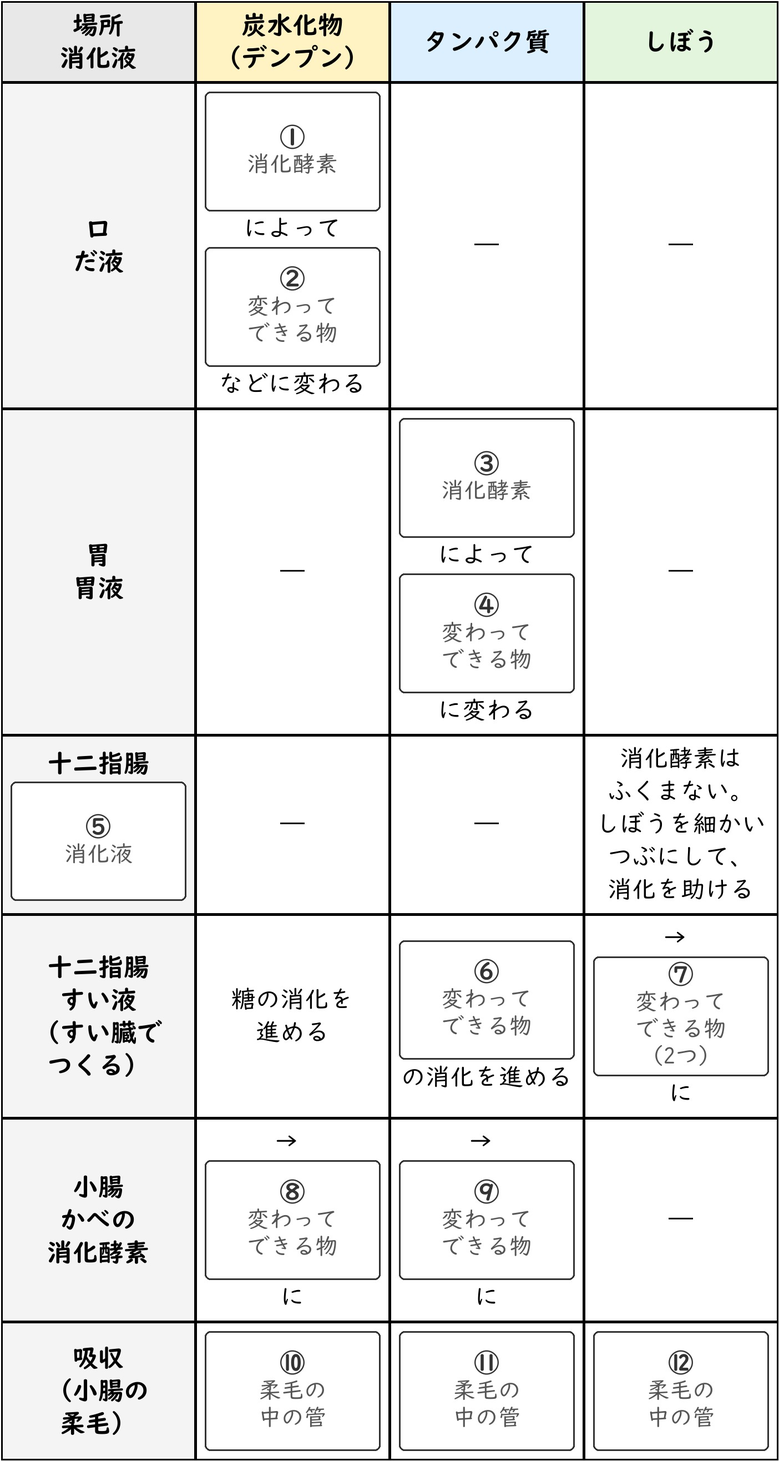
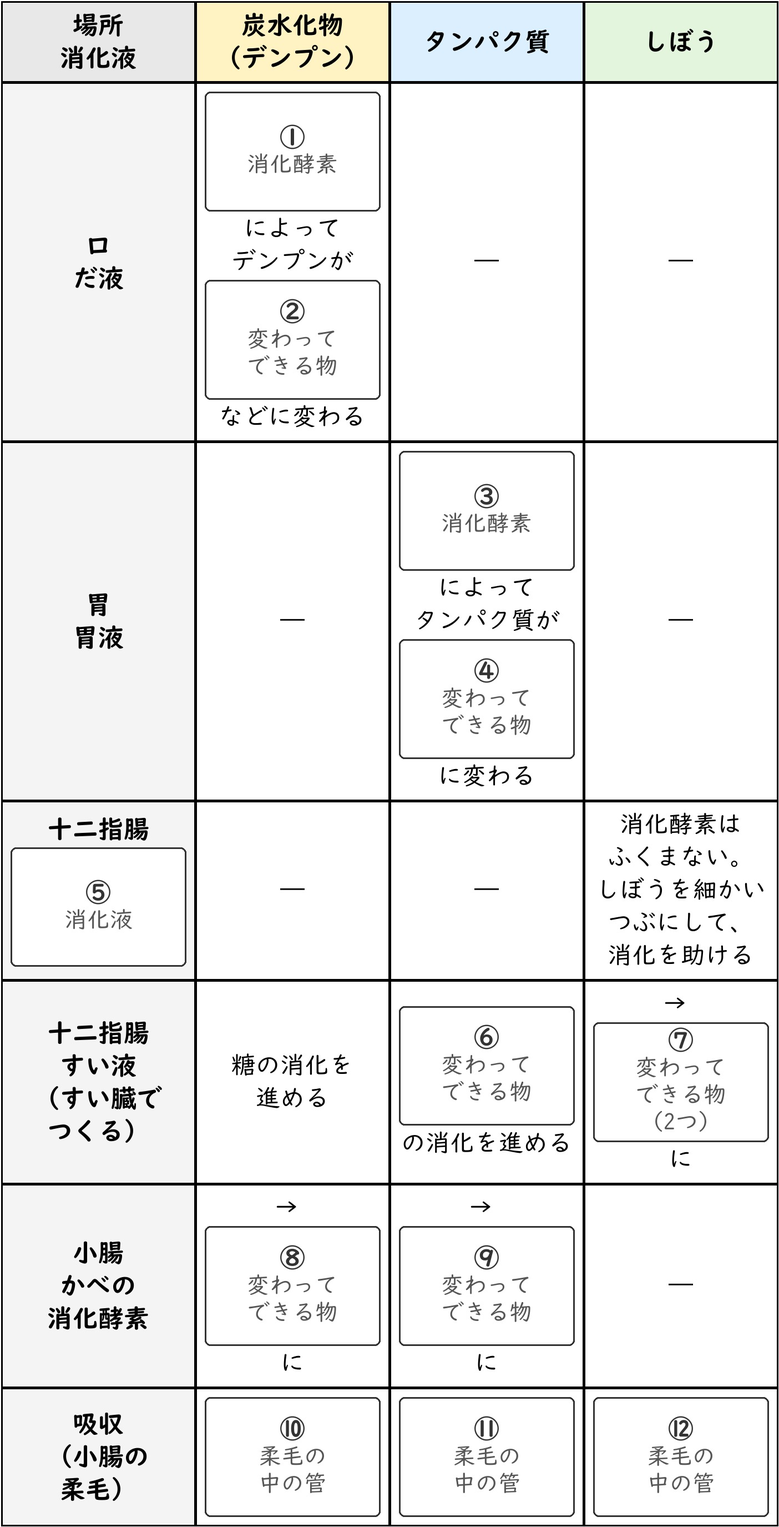
理科 第4回 消化の表に「デンプンが」「タンパク質が」を足した画像に差し替え＋IMG_SIZES＋赤丸6問
依頼書 = 5年下\quiz_csv_理科\取り込み依頼_消化の表_主語を足す_20260927.md
- images/r4_04.jpg を 947f21bc に（実寸 1404x2750）。IMG_SIZES r4_04 を 1404x2632 → 1404x2750
- TIMELINE_MARKS の r4m92・r4m93・r4m84・r4m94・r4m95・r4m96 を座標ファイル（75bd68f1）の数字に。ほかの枠は変わっていない（前後で比べて変わったのはこの6問だけ）
- data.js は変えていない
- 390px で r4m92（口の行 ①②）・r4m96（吸収の行 ⑩⑪⑫）の赤丸を目視

diff --git a/index.html b/index.html
@@ -2698,7 +2698,7 @@ function startConnectTimeout(side){
 // images/内の各画像の実サイズ。<img>にwidth/height属性を設定することで、
 // 読み込み前でも正しい縦横比の分だけ表示スペースを確保でき、
 // 画像読み込み完了時のレイアウトのガタつき（＝それに伴うタップのすれ違い）を防ぐ。
-const IMG_SIZES = {"img_01.jpg":[581,620],"img_02.jpg":[627,579],"img_03.jpg":[714,417],"img_04.jpg":[514,483],"img_05.jpg":[644,532],"img_06.jpg":[463,429],"img_07.jpg":[1156,446],"img_08.jpg":[573,586],"img_09.jpg":[506,198],"img_10.jpg":[497,146],"img_11.jpg":[503,499],"img_12.jpg":[518,578],"img_13.jpg":[746,621],"img_14.jpg":[713,567],"img_15.jpg":[658,628],"img_16.png":[642,589],"img_17.png":[535,597],"img_18.png":[510,295],"img_19.png":[1399,307],"img_20.png":[448,714],"img_21.png":[648,595],"img_22.png":[244,234],"img_23.jpg":[346,355],"img_24.jpg":[209,263],"img_25.jpg":[228,244],"kai1_01.jpg":[374,356],"kai1_02.jpg":[348,339],"kai1_03.jpg":[492,339],"kai1_04.jpg":[352,340],"kai1_05.jpg":[357,340],"kai1_06.jpg":[261,340],"kai1_07.jpg":[461,340],"kai1_08.jpg":[444,340],"kai1_09.jpg":[357,340],"kai1_10.jpg":[601,340],"kai1_11.jpg":[635,340],"kai1_12.jpg":[2019,1084],"kai1_13.jpg":[516,490],"kai1_14.jpg":[560,254],"kai1_15.jpg":[595,324],"kai1_17.jpg":[2028,783],"kai1_18.jpg":[2019,1084],"kai1_20.jpg":[2019,1084],"kai1_21.jpg":[2019,1084],"kai1_22.jpg":[595,569],"kai1_23.jpg":[595,569],"kai1_24.jpg":[2019,1084],"kai1_25.jpg":[595,569],"kai1_26.jpg":[595,569],"kai1_27.jpg":[700,508],"kai1_28.jpg":[951,720],"kai1_29.jpg":[2240,1180],"kai1_30.jpg":[1181,1244],"kai2_01.jpg":[697,350],"kai2_02.jpg":[769,524],"kai2_03.jpg":[529,297],"kai2_04.jpg":[529,313],"kai2_05.jpg":[1216,2126],"kai3_01.jpg":[530,460],"kai3_02.jpg":[680,460],"kai3_03.jpg":[700,460],"kai3_04.jpg":[675,330],"kai3_05.jpg":[2408,1775],"kai3_06.jpg":[1988,1222],"kai3_07.jpg":[1189,2001],"kai4_01.jpg":[1189,1839],"kai5_01.jpg":[1189,1027],"kai5_02.jpg":[743,534],"kaki_r1_01.jpg":[761,180],"kaki_r1_02.jpg":[761,206],"kaki_r1_03.jpg":[796,180],"kaki_r1_04.jpg":[761,179],"kaki_r1_05.jpg":[796,206],"kaki_r1_06.jpg":[830,214],"kaki_r1_07.jpg":[890,624],"kaki_r1_08.jpg":[430,380],"kaki_r1_map01.jpg":[1170,1210],"kaki_r1_map02.jpg":[1170,1210],"kaki_r1_map03.jpg":[1170,1210],"kaki_r1_map04.jpg":[1170,1210],"kaki_r1_map05.jpg":[1170,1210],"kaki_r1_map06.jpg":[1170,1210],"kaki_r1_map07.jpg":[1170,1210],"kaki_r1_map08.jpg":[1170,1210],"kaki_r1_map09.jpg":[1170,1210],"kaki_r1_map10.jpg":[1170,1210],"kaki_r1_map11.jpg":[1170,1210],"kaki_r1_map12.jpg":[1170,1210],"kaki_r1_map13.jpg":[1170,1210],"kaki_r1_map14.jpg":[1170,1210],"kaki_r1_map15.jpg":[1170,1210],"kaki_r2_graph01.jpg":[1215,1340],"kaki_r2_graph02.jpg":[1295,850],"kaki_r2_graph03.jpg":[1265,680],"kaki_r2_graph04.jpg":[1225,320],"kaki_r2_graph06.jpg":[1045,560],"kaki_r2_graph07.jpg":[700,870],"kaki_r2_map01.jpg":[1140,1090],"kaki_r2_map05.jpg":[1035,900],"kaki_r2_map07.jpg":[2315,1650],"kaki_r2_map08.jpg":[2315,1650],"kaki_r2_map09.jpg":[2315,1650],"kaki_r2_map10.jpg":[2315,1650],"kaki_r2_map11.jpg":[2315,1650],"kaki_r2_map12.jpg":[2315,1650],"kaki_r2_map13.jpg":[2315,1650],"kaki_r2_map14.jpg":[2315,1650],"kaki_r2_map15.jpg":[2315,1650],"kaki_r2_map16.jpg":[2315,1650],"kaki_r2_map17.jpg":[2315,1650],"kaki_r2_map18.jpg":[2315,1650],"kaki_r2_map19.jpg":[2315,1650],"kaki_r3_graph01.jpg":[1015,580],"kaki_r3_house01.jpg":[505,355],"kaki_r3_map01.jpg":[2415,3414],"kaki_r3_map02.jpg":[2415,3414],"kaki_r3_map03.jpg":[2415,3414],"kaki_r3_map04.jpg":[2415,3414],"kaki_r3_map05.jpg":[2415,3414],"kaki_r3_map06.jpg":[2415,3414],"kaki_r3_map07.jpg":[2415,3414],"kaki_r3_map08.jpg":[2415,3414],"kaki_r3_map09.jpg":[2415,3414],"kaki_r3_map10.jpg":[2415,3414],"kaki_r3_map11.jpg":[2415,3414],"kaki_r3_map12.jpg":[2415,3414],"kaki_r3_map13.jpg":[2415,3414],"kaki_r3_map14.jpg":[2415,3414],"kaki_r3_map15.jpg":[2415,3414],"kaki_r3_map16.jpg":[2415,3414],"kaki_r3_map17.jpg":[2415,3414],"kaki_r3_map18.jpg":[2415,3414],"kaki_r3_map19.jpg":[2415,3414],"kaki_r3_map20.jpg":[2415,3414],"kaki_r3_map21.jpg":[2415,3414],"kaki_r3_map22.jpg":[2415,3414],"kaki_r3_map23.jpg":[2415,3417],"kaki_r3_map24.jpg":[2415,3417],"kaki_r3_map25.jpg":[2415,3417],"kaki_r3_map26.jpg":[2415,3417],"kaki_r3_map27.jpg":[2415,3417],"kaki_r3_map28.jpg":[2415,3417],"kaki_r3_map29.jpg":[2415,3417],"kaki_r3_map30.jpg":[2415,3417],"kaki_r3_map31.jpg":[2415,3417],"kaki_r3_map32.jpg":[2415,3417],"kaki_r3_map33.jpg":[2415,3417],"kaki_r3_map34.jpg":[2415,3417],"kaki_r3_map35.jpg":[2415,3417],"kaki_r3_map36.jpg":[2415,3417],"kaki_r3_map37.jpg":[1265,910],"kaki_r3_shapes.jpg":[2315,480],"kaki_r4_graph01.jpg":[910,300],"kaki_r4_graph02.jpg":[760,200],"kaki_r4_map01.jpg":[1610,980],"kaki_r4_map02.jpg":[1610,1380],"kaki_r4_map03.jpg":[540,570],"kaki_r4_map04.jpg":[1480,1310],"kaki_r4_map05.jpg":[1480,1310],"kaki_r4_map06.jpg":[1480,1310],"kaki_r4_map07.jpg":[1480,1310],"kaki_r4_map08.jpg":[1480,1310],"kaki_r4_map09.jpg":[1480,1310],"kaki_r4_map10.jpg":[1480,1310],"kaki_r4_map11.jpg":[1480,1310],"kaki_r4_map12.jpg":[1480,1310],"kaki_r4_map13.jpg":[1480,1310],"kaki_r4_map14.jpg":[1480,1310],"kaki_r4_map15.jpg":[1480,1310],"kaki_r4_map16.jpg":[1480,1310],"kaki_r4_map17.jpg":[1480,1310],"kaki_r4_map18.jpg":[1480,1310],"kaki_r4_map19.jpg":[1480,1310],"kaki_r4_map20.jpg":[1480,1310],"kaki_r4_map21.jpg":[1480,1310],"kaki_r4_map22.jpg":[1480,1310],"kaki_r4_map23.jpg":[1480,1310],"kaki_r4_map24.jpg":[1480,1310],"kaki_r4_map25.jpg":[1630,1440],"kaki_r4_map26.jpg":[1630,1440],"kaki_r4_map27.jpg":[1630,1440],"kaki_r4_map28.jpg":[1630,1440],"kaki_r4_map29.jpg":[1630,1440],"kaki_r4_map30.jpg":[1630,1440],"kaki_r4_map31.jpg":[1630,1440],"kaki_r4_map32.jpg":[1630,1440],"kaki_r4_map33.jpg":[1630,1440],"kaki_r4_map34.jpg":[1630,1440],"kaki_r4_map35.jpg":[1630,1440],"kaki_r4_map36.jpg":[1630,1440],"kaki_r4_map37.jpg":[1630,1440],"kaki_r4_map38.jpg":[1630,1440],"kaki_r4_map39.jpg":[1630,1440],"kaki_r4_map40.jpg":[1630,1440],"kaki_r4_map41.jpg":[1630,1440],"kaki_r4_shapes01.jpg":[1470,520],"kaki_r4_shapes02.jpg":[1970,870],"kaki_r5_graph02.jpg":[610,665],"kaki_r5_graph05.jpg":[2105,343],"kaki_r5_map01.jpg":[1540,1550],"kaki_r5_map02.jpg":[1540,1550],"kaki_r5_map03.jpg":[1540,1550],"kaki_r5_map04.jpg":[1540,1550],"kaki_r5_map05.jpg":[1540,1550],"kaki_r5_map06.jpg":[1540,1550],"kaki_r5_map07.jpg":[1540,1550],"kaki_r5_map08.jpg":[1540,1550],"kaki_r5_map09.jpg":[1540,1550],"kaki_r5_map10.jpg":[1540,1550],"kaki_r5_map11.jpg":[1540,1550],"kaki_r5_map12.jpg":[1540,1550],"kaki_r5_map13.jpg":[1540,1550],"kaki_r5_map14.jpg":[1540,1550],"kaki_r5_map15.jpg":[1540,1550],"kaki_r5_map16.jpg":[1540,1550],"kaki_r5_map17.jpg":[1540,1550],"kaki_r5_map18.jpg":[1540,1550],"kaki_r5_map19.jpg":[1700,1740],"kaki_r5_map20.jpg":[1700,1740],"kaki_r5_map21.jpg":[1700,1740],"kaki_r5_map22.jpg":[1700,1740],"kaki_r5_map23.jpg":[1700,1740],"kaki_r5_map24.jpg":[1700,1740],"kaki_r5_map25.jpg":[1700,1740],"kaki_r5_map26.jpg":[1700,1740],"kaki_r5_map27.jpg":[1700,1740],"kaki_r5_map28.jpg":[1700,1740],"kaki_r5_map29.jpg":[1700,1740],"kaki_r5_map30.jpg":[1700,1740],"kaki_r5_map31.jpg":[1700,1740],"kaki_r5_map32.jpg":[540,600],"kaki_r5_shapes02.jpg":[800,635],"kaki_r5_shapes03.jpg":[460,480],"kaki_r5_table01.jpg":[1370,390],"kaki_r5_table02.jpg":[1170,580],"kaki_r6_graph01.jpg":[850,1005],"kaki_r6_map01.jpg":[1500,1320],"kaki_r6_map02.jpg":[1500,1320],"kaki_r6_map03.jpg":[1500,1320],"kaki_r6_map04.jpg":[1500,1320],"kaki_r6_map05.jpg":[1500,1320],"kaki_r6_map06.jpg":[1500,1320],"kaki_r6_map07.jpg":[1500,1320],"kaki_r6_map08.jpg":[1500,1320],"kaki_r6_map09.jpg":[1500,1320],"kaki_r6_map10.jpg":[1500,1320],"kaki_r6_map11.jpg":[1500,1320],"kaki_r6_map12.jpg":[1500,1320],"kaki_r6_map13.jpg":[1500,1320],"kaki_r6_map14.jpg":[1500,1320],"kaki_r6_map15.jpg":[1500,1320],"kaki_r6_map16.jpg":[1500,1320],"kaki_r6_map17.jpg":[1500,1320],"kaki_r6_map18.jpg":[1500,1320],"kaki_r6_map19.jpg":[1500,1320],"kaki_r6_map20.jpg":[1500,1320],"kaki_r6_map21.jpg":[1500,1320],"kaki_r6_map22.jpg":[1500,1320],"kaki_r6_map23.jpg":[1500,1320],"kaki_r6_map24.jpg":[1500,1320],"kaki_r6_map25.jpg":[1500,1320],"kaki_r6_map26.jpg":[1500,1320],"kaki_r6_map27.jpg":[1500,1320],"kaki_r6_map28.jpg":[1420,1480],"kaki_r6_map29.jpg":[1420,1480],"kaki_r6_map30.jpg":[1420,1480],"kaki_r6_map31.jpg":[1420,1480],"kaki_r6_map32.jpg":[1420,1480],"kaki_r6_map33.jpg":[1420,1480],"kaki_r6_map34.jpg":[1420,1480],"kaki_r6_map35.jpg":[1420,1480],"kaki_r6_map36.jpg":[1420,1480],"kaki_r6_map37.jpg":[1420,1480],"kaki_r6_map38.jpg":[1420,1480],"kaki_r6_map39.jpg":[1420,1480],"kaki_r6_map40.jpg":[1420,1480],"kaki_r6_map41.jpg":[1420,1480],"kaki_r6_map42.jpg":[1420,1480],"kaki_r6_map43.jpg":[1420,1480],"kaki_r6_map44.jpg":[1420,1480],"kaki_r6_map45.jpg":[1420,1480],"kaki_r6_map46.jpg":[1420,1480],"kaki_r6_map47.jpg":[1420,1480],"kaki_r6_map48.jpg":[750,845],"kaki_r6_map49.jpg":[600,700],"kaki_r6_table01.jpg":[2010,445],"kaki_r7_graph02.jpg":[720,340],"kaki_r7_map01.jpg":[1840,1620],"kaki_r7_map02.jpg":[1840,1620],"kaki_r7_map03.jpg":[1840,1620],"kaki_r7_map04.jpg":[1840,1620],"kaki_r7_map05.jpg":[1840,1620],"kaki_r7_map06.jpg":[1840,1620],"kaki_r7_map07.jpg":[1840,1620],"kaki_r7_map08.jpg":[1840,1620],"kaki_r7_map09.jpg":[1840,1620],"kaki_r7_map10.jpg":[1840,1620],"kaki_r7_map11.jpg":[1840,1620],"kaki_r7_map12.jpg":[1840,1620],"kaki_r7_map13.jpg":[1840,1620],"kaki_r7_map14.jpg":[1840,1620],"kaki_r7_map15.jpg":[1840,1620],"kaki_r7_map16.jpg":[1840,1620],"kaki_r7_map17.jpg":[1840,1620],"kaki_r7_map18.jpg":[1500,1620],"kaki_r7_map19.jpg":[1500,1620],"kaki_r7_map20.jpg":[1500,1620],"kaki_r7_map21.jpg":[1500,1620],"kaki_r7_map22.jpg":[1500,1620],"kaki_r7_map23.jpg":[1500,1620],"kaki_r7_map24.jpg":[1500,1620],"kaki_r7_map25.jpg":[1500,1620],"kaki_r7_map26.jpg":[1500,1620],"kaki_r7_map27.jpg":[1500,1620],"kaki_r7_map28.jpg":[1500,1620],"kaki_r7_map29.jpg":[1500,1620],"kaki_r7_map30.jpg":[1500,1620],"kaki_r7_map31.jpg":[1500,1620],"kaki_r7_map32.jpg":[1500,1620],"kaki_r7_map33.jpg":[1500,1620],"kaki_r7_map34.jpg":[1500,1620],"kaki_r7_map35.jpg":[1500,1620],"kaki_r7_map36.jpg":[680,550],"kaki_r7_table01.jpg":[1100,420],"kaki_r7_table02.jpg":[1730,890],"kaki_r8_map01.jpg":[1220,1720],"kaki_r8_map02.jpg":[1220,1720],"kaki_r8_map03.jpg":[1220,1720],"kaki_r8_map04.jpg":[1220,1720],"kaki_r8_map05.jpg":[1220,1720],"kaki_r8_map06.jpg":[1220,1720],"kaki_r8_map07.jpg":[1220,1720],"kaki_r8_map08.jpg":[1220,1720],"kaki_r8_map09.jpg":[1220,1720],"kaki_r8_map10.jpg":[1220,1720],"kaki_r8_map11.jpg":[1220,1720],"kaki_r8_map12.jpg":[1220,1720],"kaki_r8_map13.jpg":[1220,1720],"kaki_r8_map14.jpg":[1220,1720],"kaki_r8_map15.jpg":[1220,1720],"kaki_r8_map16.jpg":[1220,1720],"kaki_r8_map17.jpg":[1220,1720],"kaki_r8_map18.jpg":[1220,1720],"kaki_r8_map19.jpg":[1220,1720],"kaki_r8_map20.jpg":[1220,1720],"kaki_r8_map21.jpg":[1220,1720],"kaki_r8_map22.jpg":[1220,1720],"kaki_r8_map23.jpg":[1220,1720],"kaki_r8_map24.jpg":[1220,1720],"kaki_r8_map25.jpg":[1220,1720],"kaki_r8_map26.jpg":[1220,1720],"kaki_r8_map27.jpg":[1220,1720],"kaki_r8_map28.jpg":[1220,1720],"kaki_r8_map29.jpg":[1220,1720],"kaki_r8_map30.jpg":[1220,1720],"kaki_r8_map31.jpg":[1220,1720],"kaki_r8_map32.jpg":[1220,1720],"kaki_r8_map33.jpg":[1220,1720],"kaki_r8_map34.jpg":[1220,1720],"kaki_r8_map35.jpg":[1870,1560],"kaki_r8_map36.jpg":[1870,1560],"kaki_r8_map37.jpg":[1870,1560],"kaki_r8_map38.jpg":[1870,1560],"kaki_r8_map39.jpg":[1870,1560],"kaki_r8_map40.jpg":[1870,1560],"kaki_r8_map41.jpg":[1870,1560],"kaki_r8_map42.jpg":[1870,1560],"kaki_r8_map43.jpg":[1870,1560],"kaki_r8_map44.jpg":[1870,1560],"kaki_r8_map45.jpg":[1870,1560],"kaki_r8_map46.jpg":[1870,1560],"kaki_r8_map47.jpg":[1870,1560],"kaki_r8_map48.jpg":[1870,1560],"kaki_r8_map49.jpg":[1870,1560],"kaki_r8_map50.jpg":[1870,1560],"kaki_r8_map51.jpg":[1870,1560],"kaki_r8_map52.jpg":[1870,1560],"kaki_r8_map53.jpg":[1870,1560],"kaki_r8_map54.jpg":[1870,1560],"kaki_r8_map55.jpg":[1870,1560],"kaki_r8_map56.jpg":[1870,1560],"kaki_r8_map57.jpg":[1870,1560],"kaki_r8_map58.jpg":[640,630],"r1_01.jpg":[2188,900],"r1_02.jpg":[1130,1070],"r1_03.jpg":[1660,400],"r1_04.jpg":[476,377],"r1_05.jpg":[1299,625],"r1_06.jpg":[950,360],"r1_shinrin.jpg":[1404,1135],"r2_01.jpg":[1400,673],"r2_02.jpg":[1400,365],"r2_03.jpg":[1400,346],"r2_04.jpg":[1400,997],"r2_05.jpg":[1400,692],"r2_06.jpg":[1392,600],"r2_07.jpg":[1392,623],"r2_08.jpg":[1392,701],"r2_09.jpg":[1419,823],"r2_10.jpg":[1419,823],"r2_11.jpg":[1419,823],"r2_12.jpg":[1419,956],"r2_13.jpg":[1419,956],"r2_14.jpg":[1419,956],"r2_15.jpg":[1400,946],"r2_16.jpg":[1400,946],"r2_17.jpg":[1400,946],"r2_18.jpg":[1400,883],"r2_19.jpg":[1400,883],"r2_20.jpg":[1427,1895],"r2_21.jpg":[1427,1895],"r2_22.jpg":[1427,1895],"r2_23.jpg":[1427,1895],"r2_24.jpg":[1427,1895],"r2_25.jpg":[1427,1895],"r2_26.jpg":[1410,1983],"r2_27.jpg":[1410,1983],"r2_28.jpg":[1410,1983],"r2_29.jpg":[1410,1983],"r2_30.jpg":[1419,946],"r2_31.jpg":[1419,946],"r2_32.jpg":[1419,946],"r2_33.jpg":[1419,946],"r2_34.jpg":[1419,538],"r2_35.jpg":[1419,538],"r2_36.jpg":[1419,538],"r2_37.jpg":[1419,538],"r2_38.jpg":[1419,546],"r2_39.jpg":[1401,913],"r2_40.jpg":[1401,1937],"r3_chuuwa.jpg":[1404,556],"r3_seishitsu.jpg":[1404,1708],"r3_shijiyaku.jpg":[1404,790],"r3_yomi21.jpg":[645,466],"r3_yomi24.jpg":[1404,382],"r3_yomi25.jpg":[1170,1095],"r3_yomi27.jpg":[1404,310],"r3_yomi36.jpg":[780,600],"r4_01.jpg":[880,1168],"r4_02.jpg":[1175,434],"r4_03.jpg":[759,1084],"r4_04.jpg":[1404,2632]};
+const IMG_SIZES = {"img_01.jpg":[581,620],"img_02.jpg":[627,579],"img_03.jpg":[714,417],"img_04.jpg":[514,483],"img_05.jpg":[644,532],"img_06.jpg":[463,429],"img_07.jpg":[1156,446],"img_08.jpg":[573,586],"img_09.jpg":[506,198],"img_10.jpg":[497,146],"img_11.jpg":[503,499],"img_12.jpg":[518,578],"img_13.jpg":[746,621],"img_14.jpg":[713,567],"img_15.jpg":[658,628],"img_16.png":[642,589],"img_17.png":[535,597],"img_18.png":[510,295],"img_19.png":[1399,307],"img_20.png":[448,714],"img_21.png":[648,595],"img_22.png":[244,234],"img_23.jpg":[346,355],"img_24.jpg":[209,263],"img_25.jpg":[228,244],"kai1_01.jpg":[374,356],"kai1_02.jpg":[348,339],"kai1_03.jpg":[492,339],"kai1_04.jpg":[352,340],"kai1_05.jpg":[357,340],"kai1_06.jpg":[261,340],"kai1_07.jpg":[461,340],"kai1_08.jpg":[444,340],"kai1_09.jpg":[357,340],"kai1_10.jpg":[601,340],"kai1_11.jpg":[635,340],"kai1_12.jpg":[2019,1084],"kai1_13.jpg":[516,490],"kai1_14.jpg":[560,254],"kai1_15.jpg":[595,324],"kai1_17.jpg":[2028,783],"kai1_18.jpg":[2019,1084],"kai1_20.jpg":[2019,1084],"kai1_21.jpg":[2019,1084],"kai1_22.jpg":[595,569],"kai1_23.jpg":[595,569],"kai1_24.jpg":[2019,1084],"kai1_25.jpg":[595,569],"kai1_26.jpg":[595,569],"kai1_27.jpg":[700,508],"kai1_28.jpg":[951,720],"kai1_29.jpg":[2240,1180],"kai1_30.jpg":[1181,1244],"kai2_01.jpg":[697,350],"kai2_02.jpg":[769,524],"kai2_03.jpg":[529,297],"kai2_04.jpg":[529,313],"kai2_05.jpg":[1216,2126],"kai3_01.jpg":[530,460],"kai3_02.jpg":[680,460],"kai3_03.jpg":[700,460],"kai3_04.jpg":[675,330],"kai3_05.jpg":[2408,1775],"kai3_06.jpg":[1988,1222],"kai3_07.jpg":[1189,2001],"kai4_01.jpg":[1189,1839],"kai5_01.jpg":[1189,1027],"kai5_02.jpg":[743,534],"kaki_r1_01.jpg":[761,180],"kaki_r1_02.jpg":[761,206],"kaki_r1_03.jpg":[796,180],"kaki_r1_04.jpg":[761,179],"kaki_r1_05.jpg":[796,206],"kaki_r1_06.jpg":[830,214],"kaki_r1_07.jpg":[890,624],"kaki_r1_08.jpg":[430,380],"kaki_r1_map01.jpg":[1170,1210],"kaki_r1_map02.jpg":[1170,1210],"kaki_r1_map03.jpg":[1170,1210],"kaki_r1_map04.jpg":[1170,1210],"kaki_r1_map05.jpg":[1170,1210],"kaki_r1_map06.jpg":[1170,1210],"kaki_r1_map07.jpg":[1170,1210],"kaki_r1_map08.jpg":[1170,1210],"kaki_r1_map09.jpg":[1170,1210],"kaki_r1_map10.jpg":[1170,1210],"kaki_r1_map11.jpg":[1170,1210],"kaki_r1_map12.jpg":[1170,1210],"kaki_r1_map13.jpg":[1170,1210],"kaki_r1_map14.jpg":[1170,1210],"kaki_r1_map15.jpg":[1170,1210],"kaki_r2_graph01.jpg":[1215,1340],"kaki_r2_graph02.jpg":[1295,850],"kaki_r2_graph03.jpg":[1265,680],"kaki_r2_graph04.jpg":[1225,320],"kaki_r2_graph06.jpg":[1045,560],"kaki_r2_graph07.jpg":[700,870],"kaki_r2_map01.jpg":[1140,1090],"kaki_r2_map05.jpg":[1035,900],"kaki_r2_map07.jpg":[2315,1650],"kaki_r2_map08.jpg":[2315,1650],"kaki_r2_map09.jpg":[2315,1650],"kaki_r2_map10.jpg":[2315,1650],"kaki_r2_map11.jpg":[2315,1650],"kaki_r2_map12.jpg":[2315,1650],"kaki_r2_map13.jpg":[2315,1650],"kaki_r2_map14.jpg":[2315,1650],"kaki_r2_map15.jpg":[2315,1650],"kaki_r2_map16.jpg":[2315,1650],"kaki_r2_map17.jpg":[2315,1650],"kaki_r2_map18.jpg":[2315,1650],"kaki_r2_map19.jpg":[2315,1650],"kaki_r3_graph01.jpg":[1015,580],"kaki_r3_house01.jpg":[505,355],"kaki_r3_map01.jpg":[2415,3414],"kaki_r3_map02.jpg":[2415,3414],"kaki_r3_map03.jpg":[2415,3414],"kaki_r3_map04.jpg":[2415,3414],"kaki_r3_map05.jpg":[2415,3414],"kaki_r3_map06.jpg":[2415,3414],"kaki_r3_map07.jpg":[2415,3414],"kaki_r3_map08.jpg":[2415,3414],"kaki_r3_map09.jpg":[2415,3414],"kaki_r3_map10.jpg":[2415,3414],"kaki_r3_map11.jpg":[2415,3414],"kaki_r3_map12.jpg":[2415,3414],"kaki_r3_map13.jpg":[2415,3414],"kaki_r3_map14.jpg":[2415,3414],"kaki_r3_map15.jpg":[2415,3414],"kaki_r3_map16.jpg":[2415,3414],"kaki_r3_map17.jpg":[2415,3414],"kaki_r3_map18.jpg":[2415,3414],"kaki_r3_map19.jpg":[2415,3414],"kaki_r3_map20.jpg":[2415,3414],"kaki_r3_map21.jpg":[2415,3414],"kaki_r3_map22.jpg":[2415,3414],"kaki_r3_map23.jpg":[2415,3417],"kaki_r3_map24.jpg":[2415,3417],"kaki_r3_map25.jpg":[2415,3417],"kaki_r3_map26.jpg":[2415,3417],"kaki_r3_map27.jpg":[2415,3417],"kaki_r3_map28.jpg":[2415,3417],"kaki_r3_map29.jpg":[2415,3417],"kaki_r3_map30.jpg":[2415,3417],"kaki_r3_map31.jpg":[2415,3417],"kaki_r3_map32.jpg":[2415,3417],"kaki_r3_map33.jpg":[2415,3417],"kaki_r3_map34.jpg":[2415,3417],"kaki_r3_map35.jpg":[2415,3417],"kaki_r3_map36.jpg":[2415,3417],"kaki_r3_map37.jpg":[1265,910],"kaki_r3_shapes.jpg":[2315,480],"kaki_r4_graph01.jpg":[910,300],"kaki_r4_graph02.jpg":[760,200],"kaki_r4_map01.jpg":[1610,980],"kaki_r4_map02.jpg":[1610,1380],"kaki_r4_map03.jpg":[540,570],"kaki_r4_map04.jpg":[1480,1310],"kaki_r4_map05.jpg":[1480,1310],"kaki_r4_map06.jpg":[1480,1310],"kaki_r4_map07.jpg":[1480,1310],"kaki_r4_map08.jpg":[1480,1310],"kaki_r4_map09.jpg":[1480,1310],"kaki_r4_map10.jpg":[1480,1310],"kaki_r4_map11.jpg":[1480,1310],"kaki_r4_map12.jpg":[1480,1310],"kaki_r4_map13.jpg":[1480,1310],"kaki_r4_map14.jpg":[1480,1310],"kaki_r4_map15.jpg":[1480,1310],"kaki_r4_map16.jpg":[1480,1310],"kaki_r4_map17.jpg":[1480,1310],"kaki_r4_map18.jpg":[1480,1310],"kaki_r4_map19.jpg":[1480,1310],"kaki_r4_map20.jpg":[1480,1310],"kaki_r4_map21.jpg":[1480,1310],"kaki_r4_map22.jpg":[1480,1310],"kaki_r4_map23.jpg":[1480,1310],"kaki_r4_map24.jpg":[1480,1310],"kaki_r4_map25.jpg":[1630,1440],"kaki_r4_map26.jpg":[1630,1440],"kaki_r4_map27.jpg":[1630,1440],"kaki_r4_map28.jpg":[1630,1440],"kaki_r4_map29.jpg":[1630,1440],"kaki_r4_map30.jpg":[1630,1440],"kaki_r4_map31.jpg":[1630,1440],"kaki_r4_map32.jpg":[1630,1440],"kaki_r4_map33.jpg":[1630,1440],"kaki_r4_map34.jpg":[1630,1440],"kaki_r4_map35.jpg":[1630,1440],"kaki_r4_map36.jpg":[1630,1440],"kaki_r4_map37.jpg":[1630,1440],"kaki_r4_map38.jpg":[1630,1440],"kaki_r4_map39.jpg":[1630,1440],"kaki_r4_map40.jpg":[1630,1440],"kaki_r4_map41.jpg":[1630,1440],"kaki_r4_shapes01.jpg":[1470,520],"kaki_r4_shapes02.jpg":[1970,870],"kaki_r5_graph02.jpg":[610,665],"kaki_r5_graph05.jpg":[2105,343],"kaki_r5_map01.jpg":[1540,1550],"kaki_r5_map02.jpg":[1540,1550],"kaki_r5_map03.jpg":[1540,1550],"kaki_r5_map04.jpg":[1540,1550],"kaki_r5_map05.jpg":[1540,1550],"kaki_r5_map06.jpg":[1540,1550],"kaki_r5_map07.jpg":[1540,1550],"kaki_r5_map08.jpg":[1540,1550],"kaki_r5_map09.jpg":[1540,1550],"kaki_r5_map10.jpg":[1540,1550],"kaki_r5_map11.jpg":[1540,1550],"kaki_r5_map12.jpg":[1540,1550],"kaki_r5_map13.jpg":[1540,1550],"kaki_r5_map14.jpg":[1540,1550],"kaki_r5_map15.jpg":[1540,1550],"kaki_r5_map16.jpg":[1540,1550],"kaki_r5_map17.jpg":[1540,1550],"kaki_r5_map18.jpg":[1540,1550],"kaki_r5_map19.jpg":[1700,1740],"kaki_r5_map20.jpg":[1700,1740],"kaki_r5_map21.jpg":[1700,1740],"kaki_r5_map22.jpg":[1700,1740],"kaki_r5_map23.jpg":[1700,1740],"kaki_r5_map24.jpg":[1700,1740],"kaki_r5_map25.jpg":[1700,1740],"kaki_r5_map26.jpg":[1700,1740],"kaki_r5_map27.jpg":[1700,1740],"kaki_r5_map28.jpg":[1700,1740],"kaki_r5_map29.jpg":[1700,1740],"kaki_r5_map30.jpg":[1700,1740],"kaki_r5_map31.jpg":[1700,1740],"kaki_r5_map32.jpg":[540,600],"kaki_r5_shapes02.jpg":[800,635],"kaki_r5_shapes03.jpg":[460,480],"kaki_r5_table01.jpg":[1370,390],"kaki_r5_table02.jpg":[1170,580],"kaki_r6_graph01.jpg":[850,1005],"kaki_r6_map01.jpg":[1500,1320],"kaki_r6_map02.jpg":[1500,1320],"kaki_r6_map03.jpg":[1500,1320],"kaki_r6_map04.jpg":[1500,1320],"kaki_r6_map05.jpg":[1500,1320],"kaki_r6_map06.jpg":[1500,1320],"kaki_r6_map07.jpg":[1500,1320],"kaki_r6_map08.jpg":[1500,1320],"kaki_r6_map09.jpg":[1500,1320],"kaki_r6_map10.jpg":[1500,1320],"kaki_r6_map11.jpg":[1500,1320],"kaki_r6_map12.jpg":[1500,1320],"kaki_r6_map13.jpg":[1500,1320],"kaki_r6_map14.jpg":[1500,1320],"kaki_r6_map15.jpg":[1500,1320],"kaki_r6_map16.jpg":[1500,1320],"kaki_r6_map17.jpg":[1500,1320],"kaki_r6_map18.jpg":[1500,1320],"kaki_r6_map19.jpg":[1500,1320],"kaki_r6_map20.jpg":[1500,1320],"kaki_r6_map21.jpg":[1500,1320],"kaki_r6_map22.jpg":[1500,1320],"kaki_r6_map23.jpg":[1500,1320],"kaki_r6_map24.jpg":[1500,1320],"kaki_r6_map25.jpg":[1500,1320],"kaki_r6_map26.jpg":[1500,1320],"kaki_r6_map27.jpg":[1500,1320],"kaki_r6_map28.jpg":[1420,1480],"kaki_r6_map29.jpg":[1420,1480],"kaki_r6_map30.jpg":[1420,1480],"kaki_r6_map31.jpg":[1420,1480],"kaki_r6_map32.jpg":[1420,1480],"kaki_r6_map33.jpg":[1420,1480],"kaki_r6_map34.jpg":[1420,1480],"kaki_r6_map35.jpg":[1420,1480],"kaki_r6_map36.jpg":[1420,1480],"kaki_r6_map37.jpg":[1420,1480],"kaki_r6_map38.jpg":[1420,1480],"kaki_r6_map39.jpg":[1420,1480],"kaki_r6_map40.jpg":[1420,1480],"kaki_r6_map41.jpg":[1420,1480],"kaki_r6_map42.jpg":[1420,1480],"kaki_r6_map43.jpg":[1420,1480],"kaki_r6_map44.jpg":[1420,1480],"kaki_r6_map45.jpg":[1420,1480],"kaki_r6_map46.jpg":[1420,1480],"kaki_r6_map47.jpg":[1420,1480],"kaki_r6_map48.jpg":[750,845],"kaki_r6_map49.jpg":[600,700],"kaki_r6_table01.jpg":[2010,445],"kaki_r7_graph02.jpg":[720,340],"kaki_r7_map01.jpg":[1840,1620],"kaki_r7_map02.jpg":[1840,1620],"kaki_r7_map03.jpg":[1840,1620],"kaki_r7_map04.jpg":[1840,1620],"kaki_r7_map05.jpg":[1840,1620],"kaki_r7_map06.jpg":[1840,1620],"kaki_r7_map07.jpg":[1840,1620],"kaki_r7_map08.jpg":[1840,1620],"kaki_r7_map09.jpg":[1840,1620],"kaki_r7_map10.jpg":[1840,1620],"kaki_r7_map11.jpg":[1840,1620],"kaki_r7_map12.jpg":[1840,1620],"kaki_r7_map13.jpg":[1840,1620],"kaki_r7_map14.jpg":[1840,1620],"kaki_r7_map15.jpg":[1840,1620],"kaki_r7_map16.jpg":[1840,1620],"kaki_r7_map17.jpg":[1840,1620],"kaki_r7_map18.jpg":[1500,1620],"kaki_r7_map19.jpg":[1500,1620],"kaki_r7_map20.jpg":[1500,1620],"kaki_r7_map21.jpg":[1500,1620],"kaki_r7_map22.jpg":[1500,1620],"kaki_r7_map23.jpg":[1500,1620],"kaki_r7_map24.jpg":[1500,1620],"kaki_r7_map25.jpg":[1500,1620],"kaki_r7_map26.jpg":[1500,1620],"kaki_r7_map27.jpg":[1500,1620],"kaki_r7_map28.jpg":[1500,1620],"kaki_r7_map29.jpg":[1500,1620],"kaki_r7_map30.jpg":[1500,1620],"kaki_r7_map31.jpg":[1500,1620],"kaki_r7_map32.jpg":[1500,1620],"kaki_r7_map33.jpg":[1500,1620],"kaki_r7_map34.jpg":[1500,1620],"kaki_r7_map35.jpg":[1500,1620],"kaki_r7_map36.jpg":[680,550],"kaki_r7_table01.jpg":[1100,420],"kaki_r7_table02.jpg":[1730,890],"kaki_r8_map01.jpg":[1220,1720],"kaki_r8_map02.jpg":[1220,1720],"kaki_r8_map03.jpg":[1220,1720],"kaki_r8_map04.jpg":[1220,1720],"kaki_r8_map05.jpg":[1220,1720],"kaki_r8_map06.jpg":[1220,1720],"kaki_r8_map07.jpg":[1220,1720],"kaki_r8_map08.jpg":[1220,1720],"kaki_r8_map09.jpg":[1220,1720],"kaki_r8_map10.jpg":[1220,1720],"kaki_r8_map11.jpg":[1220,1720],"kaki_r8_map12.jpg":[1220,1720],"kaki_r8_map13.jpg":[1220,1720],"kaki_r8_map14.jpg":[1220,1720],"kaki_r8_map15.jpg":[1220,1720],"kaki_r8_map16.jpg":[1220,1720],"kaki_r8_map17.jpg":[1220,1720],"kaki_r8_map18.jpg":[1220,1720],"kaki_r8_map19.jpg":[1220,1720],"kaki_r8_map20.jpg":[1220,1720],"kaki_r8_map21.jpg":[1220,1720],"kaki_r8_map22.jpg":[1220,1720],"kaki_r8_map23.jpg":[1220,1720],"kaki_r8_map24.jpg":[1220,1720],"kaki_r8_map25.jpg":[1220,1720],"kaki_r8_map26.jpg":[1220,1720],"kaki_r8_map27.jpg":[1220,1720],"kaki_r8_map28.jpg":[1220,1720],"kaki_r8_map29.jpg":[1220,1720],"kaki_r8_map30.jpg":[1220,1720],"kaki_r8_map31.jpg":[1220,1720],"kaki_r8_map32.jpg":[1220,1720],"kaki_r8_map33.jpg":[1220,1720],"kaki_r8_map34.jpg":[1220,1720],"kaki_r8_map35.jpg":[1870,1560],"kaki_r8_map36.jpg":[1870,1560],"kaki_r8_map37.jpg":[1870,1560],"kaki_r8_map38.jpg":[1870,1560],"kaki_r8_map39.jpg":[1870,1560],"kaki_r8_map40.jpg":[1870,1560],"kaki_r8_map41.jpg":[1870,1560],"kaki_r8_map42.jpg":[1870,1560],"kaki_r8_map43.jpg":[1870,1560],"kaki_r8_map44.jpg":[1870,1560],"kaki_r8_map45.jpg":[1870,1560],"kaki_r8_map46.jpg":[1870,1560],"kaki_r8_map47.jpg":[1870,1560],"kaki_r8_map48.jpg":[1870,1560],"kaki_r8_map49.jpg":[1870,1560],"kaki_r8_map50.jpg":[1870,1560],"kaki_r8_map51.jpg":[1870,1560],"kaki_r8_map52.jpg":[1870,1560],"kaki_r8_map53.jpg":[1870,1560],"kaki_r8_map54.jpg":[1870,1560],"kaki_r8_map55.jpg":[1870,1560],"kaki_r8_map56.jpg":[1870,1560],"kaki_r8_map57.jpg":[1870,1560],"kaki_r8_map58.jpg":[640,630],"r1_01.jpg":[2188,900],"r1_02.jpg":[1130,1070],"r1_03.jpg":[1660,400],"r1_04.jpg":[476,377],"r1_05.jpg":[1299,625],"r1_06.jpg":[950,360],"r1_shinrin.jpg":[1404,1135],"r2_01.jpg":[1400,673],"r2_02.jpg":[1400,365],"r2_03.jpg":[1400,346],"r2_04.jpg":[1400,997],"r2_05.jpg":[1400,692],"r2_06.jpg":[1392,600],"r2_07.jpg":[1392,623],"r2_08.jpg":[1392,701],"r2_09.jpg":[1419,823],"r2_10.jpg":[1419,823],"r2_11.jpg":[1419,823],"r2_12.jpg":[1419,956],"r2_13.jpg":[1419,956],"r2_14.jpg":[1419,956],"r2_15.jpg":[1400,946],"r2_16.jpg":[1400,946],"r2_17.jpg":[1400,946],"r2_18.jpg":[1400,883],"r2_19.jpg":[1400,883],"r2_20.jpg":[1427,1895],"r2_21.jpg":[1427,1895],"r2_22.jpg":[1427,1895],"r2_23.jpg":[1427,1895],"r2_24.jpg":[1427,1895],"r2_25.jpg":[1427,1895],"r2_26.jpg":[1410,1983],"r2_27.jpg":[1410,1983],"r2_28.jpg":[1410,1983],"r2_29.jpg":[1410,1983],"r2_30.jpg":[1419,946],"r2_31.jpg":[1419,946],"r2_32.jpg":[1419,946],"r2_33.jpg":[1419,946],"r2_34.jpg":[1419,538],"r2_35.jpg":[1419,538],"r2_36.jpg":[1419,538],"r2_37.jpg":[1419,538],"r2_38.jpg":[1419,546],"r2_39.jpg":[1401,913],"r2_40.jpg":[1401,1937],"r3_chuuwa.jpg":[1404,556],"r3_seishitsu.jpg":[1404,1708],"r3_shijiyaku.jpg":[1404,790],"r3_yomi21.jpg":[645,466],"r3_yomi24.jpg":[1404,382],"r3_yomi25.jpg":[1170,1095],"r3_yomi27.jpg":[1404,310],"r3_yomi36.jpg":[780,600],"r4_01.jpg":[880,1168],"r4_02.jpg":[1175,434],"r4_03.jpg":[759,1084],"r4_04.jpg":[1404,2750]};
 
 // 画像を差し替える際、幅・高さの属性も一緒に設定する（IMG_SIZESに無い画像はそのまま）
 // ---- 年表の空らんを赤丸で示す位置（画像の幅・高さに対する割合）----
@@ -2807,12 +2807,12 @@ const TIMELINE_MARKS = {
   "r1m94": [[0.01959, 0.46388, 0.22934, 0.13304], [0.75036, 0.46388, 0.22934, 0.13304]],
   "r1m95": [[0.01959, 0.69031, 0.22934, 0.13304], [0.75036, 0.69031, 0.22934, 0.13304]],
   "r1m96": [[0.01959, 0.85595, 0.22934, 0.13304], [0.75036, 0.85595, 0.22934, 0.13304]],
-  "r4m92": [[0.25997, 0.06117, 0.23077, 0.08473], [0.25997, 0.16755, 0.23077, 0.08473]],
-  "r4m93": [[0.50926, 0.28457, 0.23077, 0.08473], [0.50926, 0.39096, 0.23077, 0.08473]],
-  "r4m84": [[0.01068, 0.53324, 0.23077, 0.08473]],
-  "r4m94": [[0.50926, 0.64191, 0.23077, 0.08473], [0.75855, 0.65312, 0.23077, 0.08473]],
-  "r4m95": [[0.25997, 0.79255, 0.23077, 0.08473], [0.50926, 0.79255, 0.23077, 0.08473]],
-  "r4m96": [[0.25997, 0.90957, 0.23077, 0.08473], [0.50926, 0.90957, 0.23077, 0.08473], [0.75855, 0.90957, 0.23077, 0.08473]]
+  "r4m92": [[0.25997, 0.05855, 0.23077, 0.08109], [0.25997, 0.18182, 0.23077, 0.08109]],
+  "r4m93": [[0.50926, 0.29382, 0.23077, 0.08109], [0.50926, 0.41709, 0.23077, 0.08109]],
+  "r4m84": [[0.01068, 0.55327, 0.23077, 0.08109]],
+  "r4m94": [[0.50926, 0.65727, 0.23077, 0.08109], [0.75855, 0.668, 0.23077, 0.08109]],
+  "r4m95": [[0.25997, 0.80145, 0.23077, 0.08109], [0.50926, 0.80145, 0.23077, 0.08109]],
+  "r4m96": [[0.25997, 0.91345, 0.23077, 0.08109], [0.50926, 0.91345, 0.23077, 0.08109], [0.75855, 0.91345, 0.23077, 0.08109]]
 };
 
 // 画像の上に赤丸を描く。
